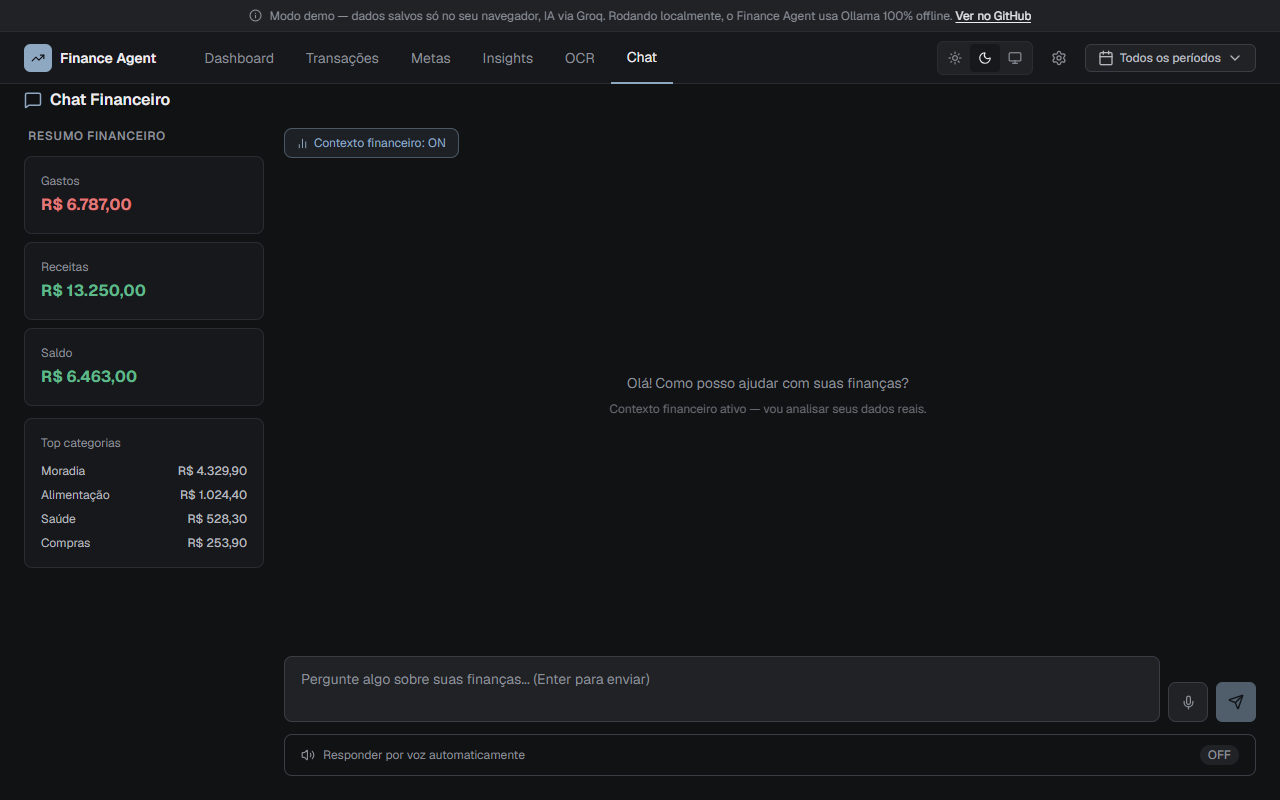
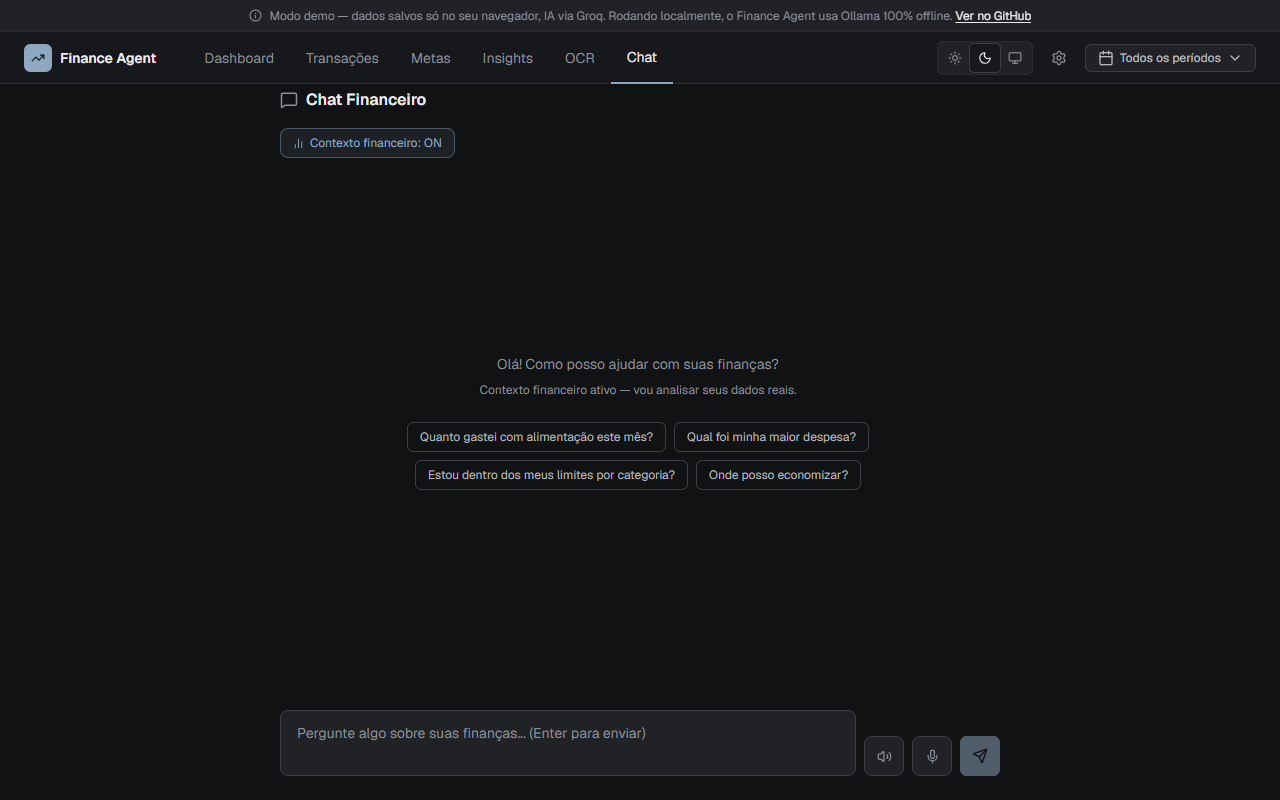
docs: atualizar screenshot do chat e changelog

diff --git a/CHANGELOG.md b/CHANGELOG.md
@@ -4,14 +4,21 @@ Formato baseado em [Keep a Changelog](https://keepachangelog.com/pt-BR/1.1.0/).
 
 ## [Unreleased]
 
+### Adicionado
+- Menu "Mais" na navegação mobile (Insights, OCR, Configurações e tema).
+- Sugestões de pergunta no estado vazio do chat.
+
 ### Alterado
+- Chat em coluna única; a resposta por voz vira um botão de ícone no campo de mensagem.
+- Insights com mensagens coerentes com os dados e botão "Tentar de novo" quando a IA não responde.
 - Transações listadas da mais recente para a mais antiga; "Últimas transações" do dashboard passa a mostrar as mais recentes.
 - Datas em `dd/mm/aaaa`, origem em texto e ações de editar/remover acessíveis por teclado e toque.
 - Metas: todas as categorias com a mesma estrutura e ação "Definir limite".
 - Gráfico de gastos vs receitas ocupa a altura do card.
 
 ### Corrigido
-- Meta de economia carregada corretamente ao abrir a tela de metas.
+- Insights pediam para "adicionar transações" mesmo havendo dados: a geração agora espera as transações carregarem.
+- Meta de economia real em Configurações (mostrava 0) e carregada corretamente ao abrir a tela de metas.
 - Hovers sem efeito e contraste dos botões ativos do formulário, do seletor de tema e do trilho das barras de progresso.
 
 ## [0.2.0] - 2026-10-04
